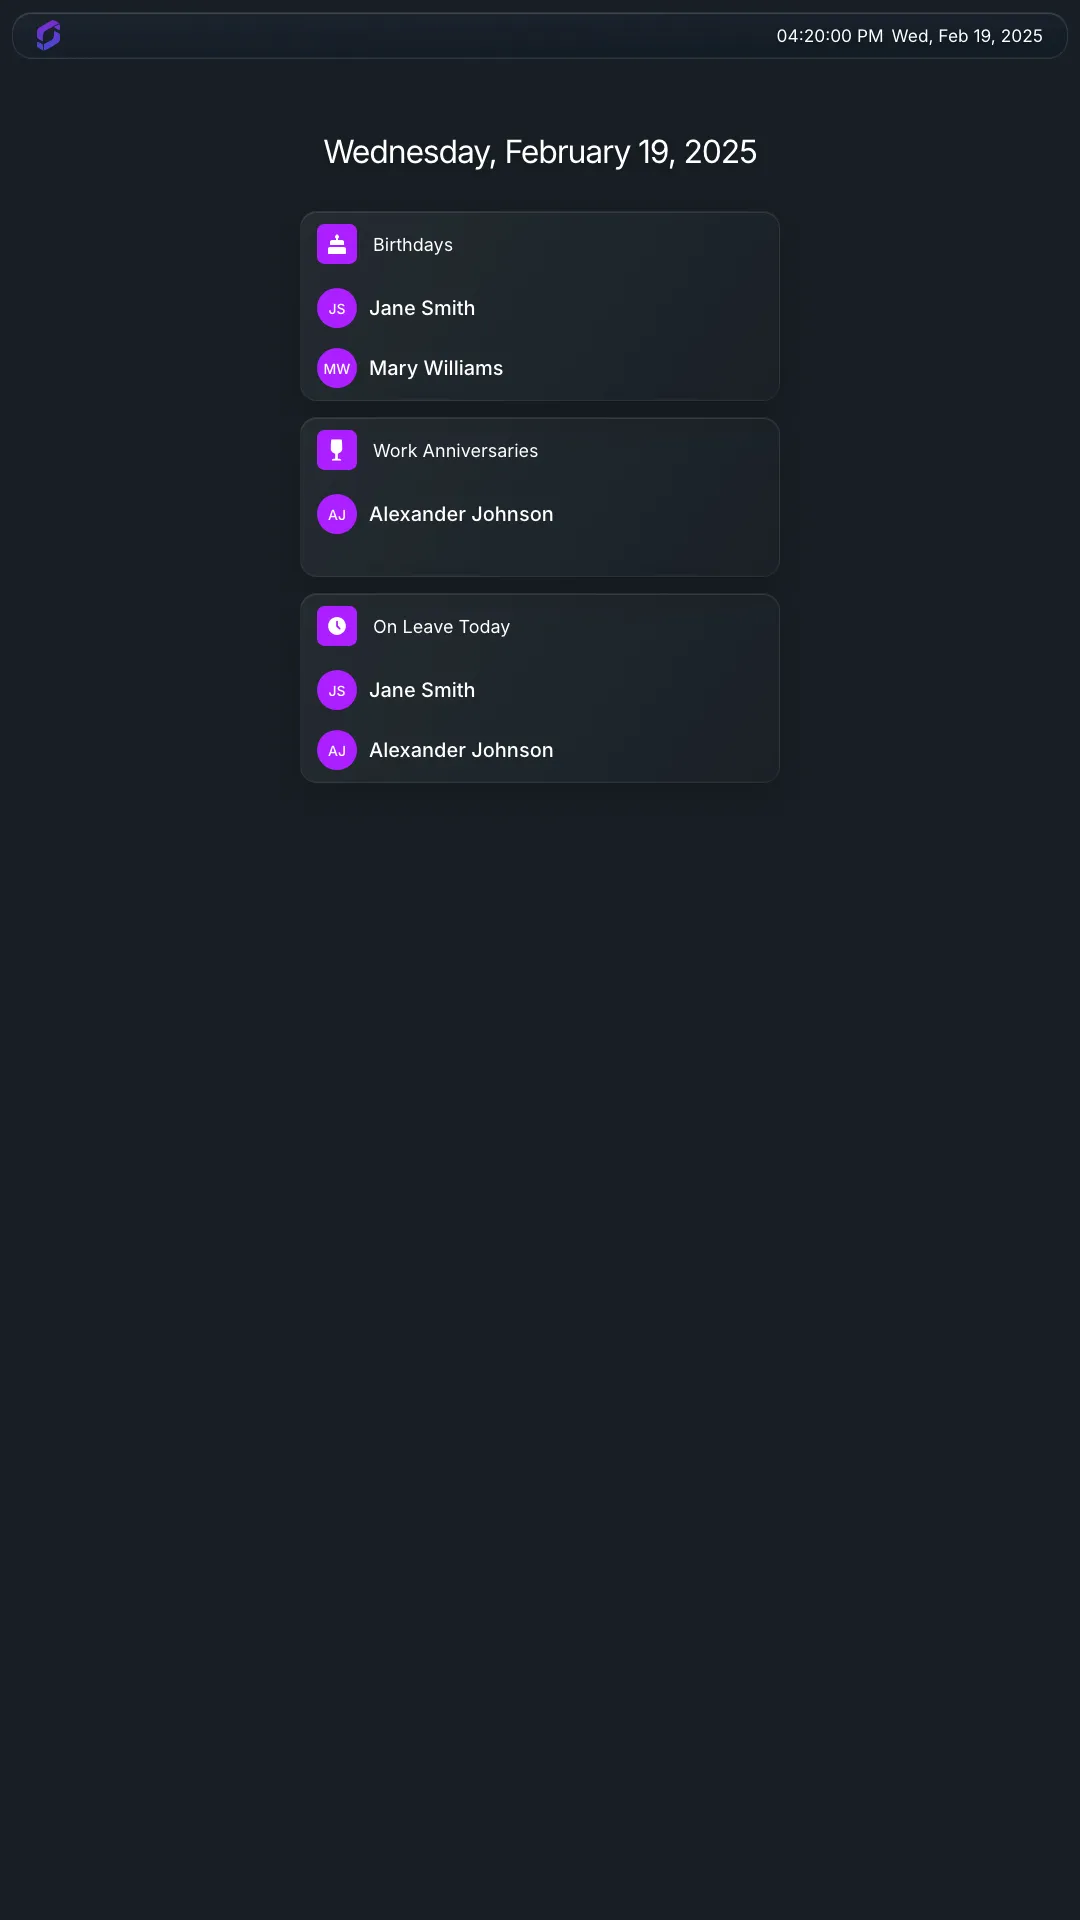
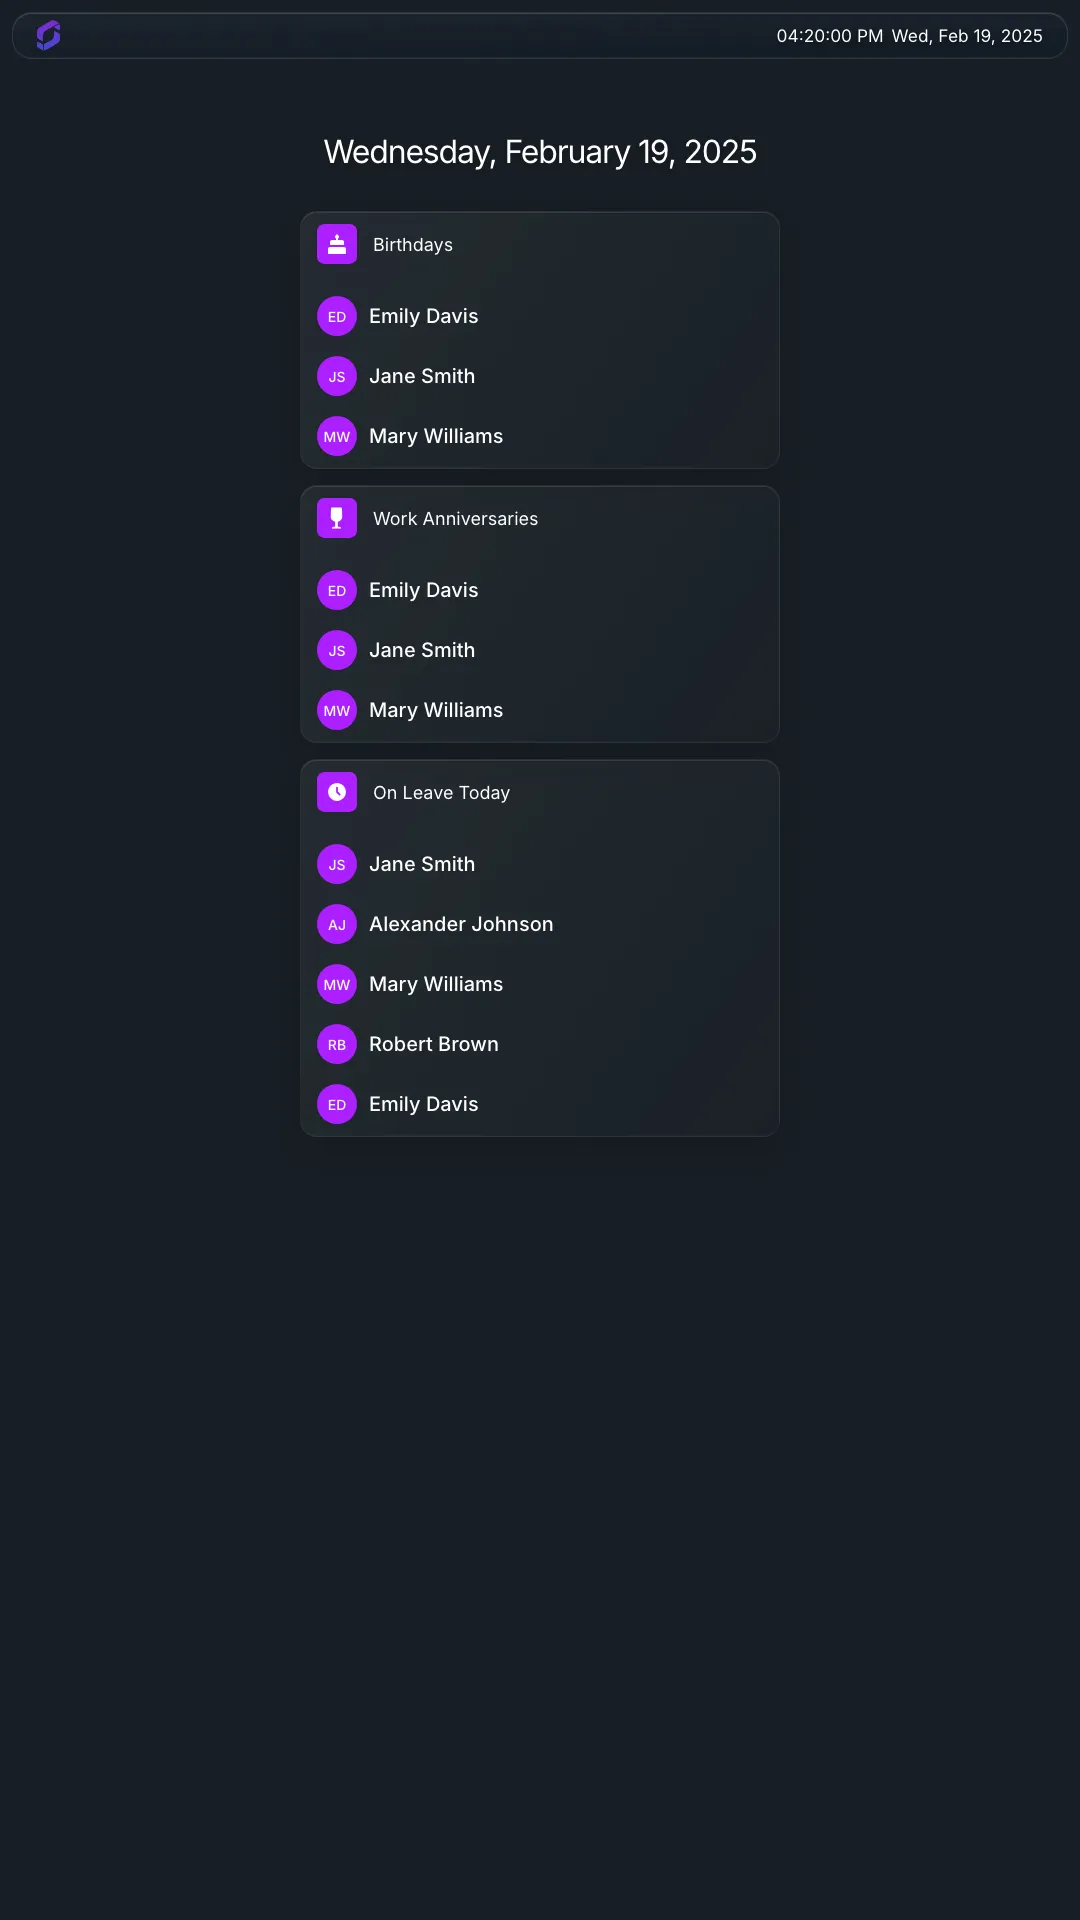
fix(bamboo-hr-app): increase card gap and expand screenshot mock data
- Increase card header-to-body gap from 1.5rem to 2rem
- Add 2 more employees and 3 more leave entries for max-capacity screenshots
- Update screenshots for all resolutions

diff --git a/edge-apps/bamboo-hr-app/e2e/screenshots.spec.ts b/edge-apps/bamboo-hr-app/e2e/screenshots.spec.ts
@@ -20,7 +20,7 @@ const { screenlyJsContent } = createMockScreenlyForScreenshots(
 )
 
 // FIXED_SCREENSHOT_DATE = 2025-02-19T21:20:00Z = Feb 19, 2025 (UTC)
-// Dates chosen so employees appear in all three sections
+// Dates chosen so employees appear in all three sections at max capacity (5 each)
 const EMPLOYEES_RESPONSE = {
   data: [
     {
@@ -29,7 +29,7 @@ const EMPLOYEES_RESPONSE = {
       firstName: 'Jane',
       lastName: 'Smith',
       dateOfBirth: '1990-02-19',
-      hireDate: '2020-02-20',
+      hireDate: '2018-02-19',
       employeePhoto:
         'https://resources.bamboohr.com/images/photo_person_160x160.png',
     },
@@ -39,7 +39,7 @@ const EMPLOYEES_RESPONSE = {
       firstName: 'Alexander',
       lastName: 'Johnson',
       dateOfBirth: '1985-02-20',
-      hireDate: '2018-02-19',
+      hireDate: '2015-02-20',
       employeePhoto:
         'https://resources.bamboohr.com/images/photo_person_160x160.png',
     },
@@ -49,7 +49,27 @@ const EMPLOYEES_RESPONSE = {
       firstName: 'Mary',
       lastName: 'Williams',
       dateOfBirth: '1992-02-19',
-      hireDate: '2022-02-20',
+      hireDate: '2020-02-19',
+      employeePhoto:
+        'https://resources.bamboohr.com/images/photo_person_160x160.png',
+    },
+    {
+      id: 4,
+      eeid: 104,
+      firstName: 'Robert',
+      lastName: 'Brown',
+      dateOfBirth: '1988-02-20',
+      hireDate: '2019-02-20',
+      employeePhoto:
+        'https://resources.bamboohr.com/images/photo_person_160x160.png',
+    },
+    {
+      id: 5,
+      eeid: 105,
+      firstName: 'Emily',
+      lastName: 'Davis',
+      dateOfBirth: '1995-02-19',
+      hireDate: '2022-02-19',
       employeePhoto:
         'https://resources.bamboohr.com/images/photo_person_160x160.png',
     },
@@ -72,6 +92,30 @@ const WHOS_OUT_RESPONSE = [
     start: '2025-02-19',
     end: '2025-02-19',
     type: 'sick',
+  },
+  {
+    id: 3,
+    employeeId: 103,
+    name: 'Mary Williams',
+    start: '2025-02-19',
+    end: '2025-02-20',
+    type: 'vacation',
+  },
+  {
+    id: 4,
+    employeeId: 104,
+    name: 'Robert Brown',
+    start: '2025-02-17',
+    end: '2025-02-22',
+    type: 'sick',
+  },
+  {
+    id: 5,
+    employeeId: 105,
+    name: 'Emily Davis',
+    start: '2025-02-19',
+    end: '2025-02-19',
+    type: 'vacation',
   },
 ]
 

diff --git a/edge-apps/bamboo-hr-app/src/css/style.css b/edge-apps/bamboo-hr-app/src/css/style.css
@@ -115,7 +115,7 @@ body {
   position: relative;
   display: flex;
   flex-direction: column;
-  gap: 1.5rem;
+  gap: 2rem;
   padding: 0.75rem 1rem;
   height: 30rem;
   border-radius: var(--radius-card);
